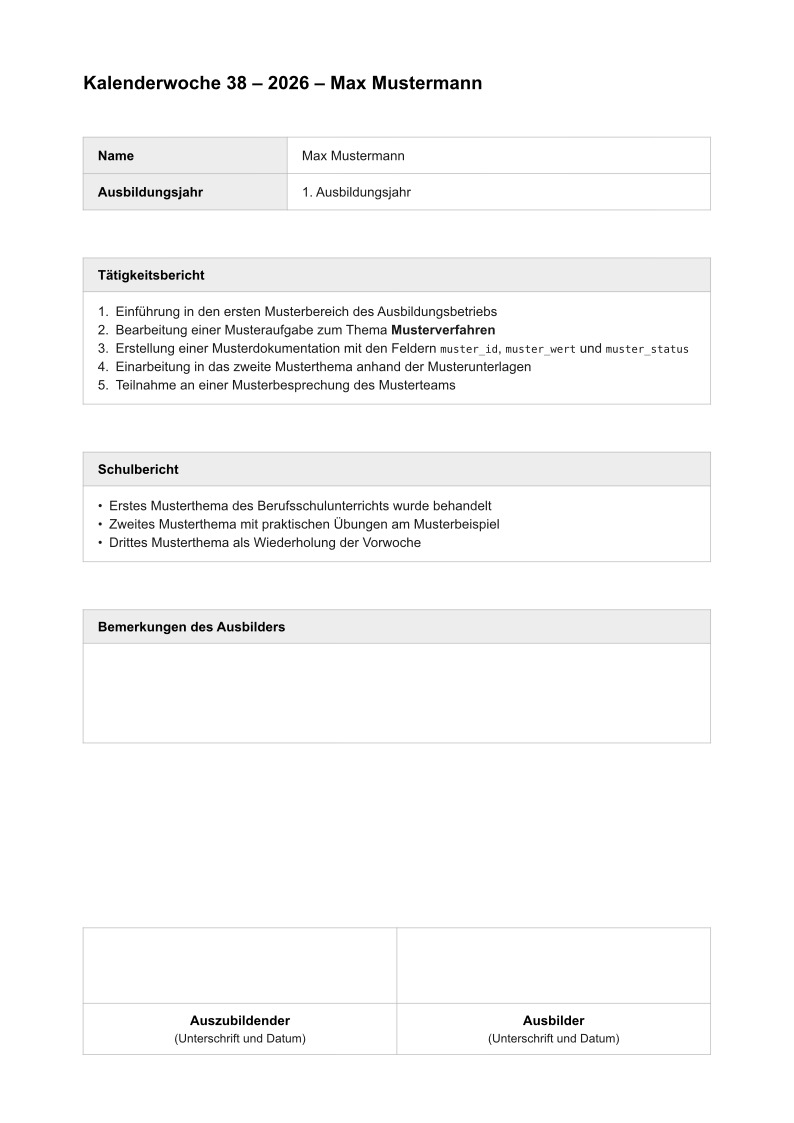
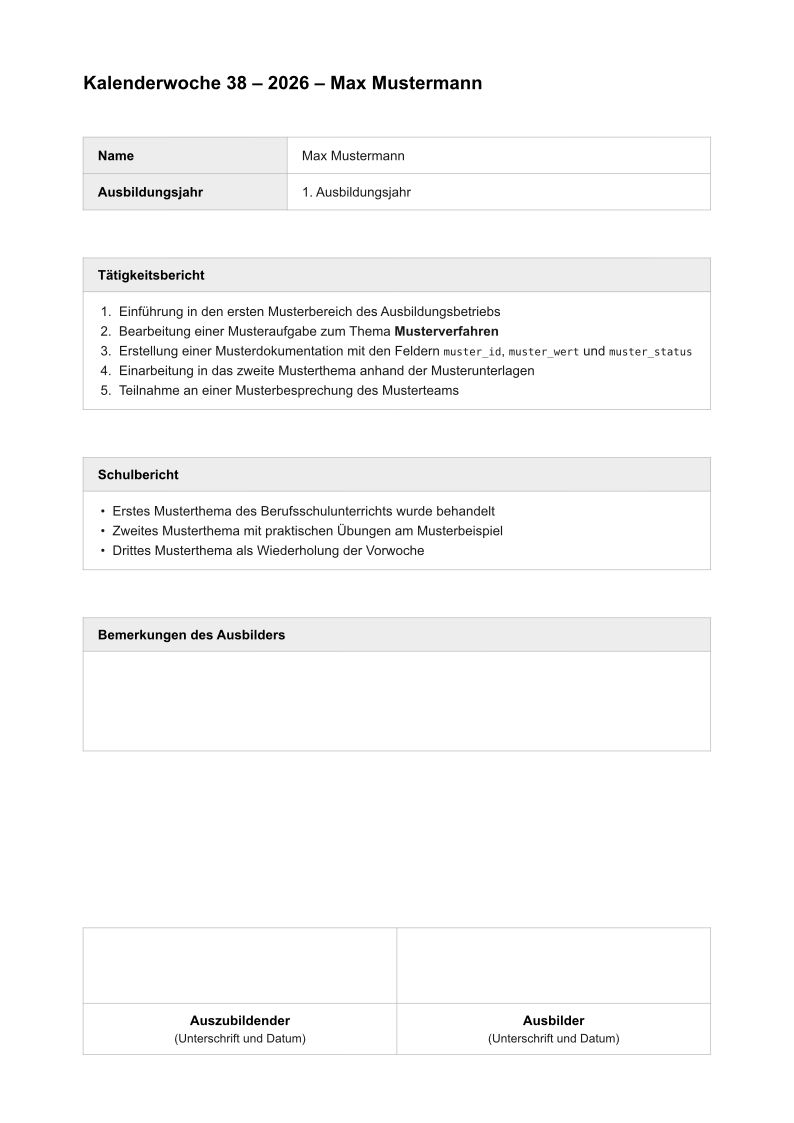
Set every section the same way it is written
A section can be written as an array of strings or as Typst markup, but
only the array went through the package's own list settings; markup kept
Typst's defaults and came out with a different indent. The two spellings
of the same section therefore did not look alike, which made the markup
form feel like the lesser one.

Apply the one list style to both, enumerations included. An array and a
"-" list with the same items now render byte for byte identically, and
either half of a report can be written either way.

The quick start in both READMEs is rewritten around that: it names both
sections instead of passing one as an argument and leaving the other to
the document body, since the two halves are of equal standing. The
document-body and trailing-block forms move to a "Shorthands" section as
what they are — shorter spellings of the same call. examples/minimal.typ
follows suit; its output is unchanged.

diff --git a/README.de.md b/README.de.md
@@ -21,32 +21,63 @@ für handschriftliche Einträge.
 
 ## Schnellstart
 
+Ein Wochenbericht besteht aus zwei gleichrangigen Hälften — dem
+Tätigkeitsbericht und dem Schulbericht —, also werden beide gleich
+geschrieben. Entweder als Arrays von Strings:
+
 ```typ
 #import "@preview/azubinachweis:0.1.0": nachweis
 
-#show: nachweis.with(
+#nachweis(
   name: "Max Mustermann",
   ausbildungsjahr: "1. Ausbildungsjahr",
   kalenderwoche: "37",
   jahr: "2026",
+  taetigkeiten: (
+    "Einführung in den ersten Musterbereich des Ausbildungsbetriebs",
+    "Bearbeitung einer Musteraufgabe zur Einschätzung der Vorkenntnisse",
+    "Teilnahme an einer Musterbesprechung des Musterteams",
+  ),
   schulbericht: (
     "Erstes Musterthema des Berufsschulunterrichts wurde behandelt",
     "Zweites Musterthema mit praktischen Übungen am Musterbeispiel",
   ),
 )
-
-- Einführung in den ersten Musterbereich des Ausbildungsbetriebs
-- Bearbeitung einer Musteraufgabe zur Einschätzung der Vorkenntnisse
-- Teilnahme an einer Musterbesprechung des Musterteams
 ```
 
-Der Text des Dokuments bildet den Tätigkeitsbericht. Alle weiteren Abschnitte
-werden als Argumente übergeben.
+oder als gewöhnliches Typst-Markup, ganz ohne Anführungszeichen:
 
-### Abschnitte als Inhaltsblöcke
+```typ
+#nachweis(
+  name: "Max Mustermann",
+  ausbildungsjahr: "1. Ausbildungsjahr",
+  kalenderwoche: "37",
+  jahr: "2026",
+  taetigkeiten: [
+    - Einführung in den ersten Musterbereich des Ausbildungsbetriebs
+    - Bearbeitung einer Musteraufgabe zur Einschätzung der Vorkenntnisse
+    - Teilnahme an einer Musterbesprechung des Musterteams
+  ],
+  schulbericht: [
+    - Erstes Musterthema des Berufsschulunterrichts wurde behandelt
+    - Zweites Musterthema mit praktischen Übungen am Musterbeispiel
+  ],
+)
+```
 
-Wer lieber gewöhnliches Typst-Markup schreibt als Strings in Arrays, hängt die
-Abschnitte als Inhaltsblöcke an den Aufruf — in der Reihenfolge, in der sie im
+Beides ergibt denselben Nachweis und wird identisch gesetzt: Einzug und
+Abstände der Listen gibt das Paket vor, gleich welcher Schreibweise. Mischen
+ist erlaubt — ein Abschnitt als Array, der nächste als Markup —, und Markup
+erlaubt zusätzlich Nummerierung, Auszeichnungen, Links, Fußnoten und Code im
+Berichtstext.
+
+Jeder Abschnitt nimmt beide Formen: `unterweisungen`, `bemerkungen`,
+`weiteres` und der `inhalt` eines Tages im `tagesbericht`.
+
+### Kurzformen
+
+Für dieselbe Sache gibt es zwei kürzere Schreibweisen. Inhaltsblöcke lassen
+sich an den Aufruf anhängen — in der Reihenfolge, in der die Abschnitte im
 Dokument stehen:
 
 ```typ
@@ -65,9 +96,8 @@ Dokument stehen:
 | `tagesbericht` | Schulbericht | Bemerkungen | — |
 | `deckblatt` | freier Zusatz | — | — |
 
-Damit sind Nummerierung, Auszeichnungen, Links, Fußnoten und Code im
-Berichtstext möglich, und es muss nichts escaped werden. Ein leerer Block `[]`
-überspringt einen Abschnitt, benannte Argumente bleiben daneben gültig:
+Ein leerer Block `[]` überspringt einen Abschnitt, benannte Argumente bleiben
+daneben gültig:
 
 ```typ
 #nachweis(taetigkeiten: ("Aus einem Array",))[][
@@ -75,8 +105,19 @@ Berichtstext möglich, und es muss nichts escaped werden. Ein leerer Block `[]`
 ]
 ```
 
-Beide Schreibweisen sind gleichwertig; `#show:` wirkt wie ein einzelner erster
-Block. Was `nachweis` im Dokumenttext bekommt, ist also der Tätigkeitsbericht.
+Und `#show: nachweis.with(..)` wirkt wie ein einzelner erster Block, macht den
+Dokumenttext also zum Tätigkeitsbericht:
+
+```typ
+#show: nachweis.with(name: "Max Mustermann", kalenderwoche: "37", jahr: "2026")
+
+- Einführung in den ersten Musterbereich des Ausbildungsbetriebs
+- Bearbeitung einer Musteraufgabe zur Einschätzung der Vorkenntnisse
+```
+
+Das ist bequem, wenn eine Datei einen Nachweis enthält, behandelt aber die eine
+Hälfte des Berichts anders als die andere. Wer beide Abschnitte benennt, wie im
+Schnellstart, hält sie gleichrangig.
 
 Das ist gleichzeitig der **minimale Aufbau**: Titelzeile, Name und
 Ausbildungsjahr, Tätigkeitsbericht, Schulbericht, eine leere Fläche für
@@ -196,8 +237,7 @@ schulbericht: ("Erster Punkt", "Zweiter Punkt"),      // Aufzählung
 schulbericht: [Beliebiges #strong[Markup]],           // eigener Inhalt
 ```
 
-Oder als Inhaltsblock hinter dem Aufruf — siehe [Abschnitte als
-Inhaltsblöcke](#abschnitte-als-inhaltsbl%C3%B6cke).
+Oder als Inhaltsblock hinter dem Aufruf — siehe [Kurzformen](#kurzformen).
 
 ### Aufbau und Beschriftung
 

diff --git a/README.md b/README.md
@@ -28,33 +28,62 @@ is the actual thing, and it is what appears on the page and in your code.
 
 ## Quick start
 
+A weekly report is two halves of equal standing — the activity report
+(*Tätigkeitsbericht*) and the school report (*Schulbericht*) — so both are
+written the same way. Either as arrays of strings:
+
 ```typ
 #import "@preview/azubinachweis:0.1.0": nachweis
 
-#show: nachweis.with(
+#nachweis(
   name: "Max Mustermann",
   ausbildungsjahr: "1. Ausbildungsjahr",
   kalenderwoche: "37",
   jahr: "2026",
+  taetigkeiten: (
+    "Einführung in den ersten Musterbereich des Ausbildungsbetriebs",
+    "Bearbeitung einer Musteraufgabe zur Einschätzung der Vorkenntnisse",
+    "Teilnahme an einer Musterbesprechung des Musterteams",
+  ),
   schulbericht: (
     "Erstes Musterthema des Berufsschulunterrichts wurde behandelt",
     "Zweites Musterthema mit praktischen Übungen am Musterbeispiel",
   ),
 )
-
-- Einführung in den ersten Musterbereich des Ausbildungsbetriebs
-- Bearbeitung einer Musteraufgabe zur Einschätzung der Vorkenntnisse
-- Teilnahme an einer Musterbesprechung des Musterteams
 ```
 
-The document body becomes the activity report (*Tätigkeitsbericht*). Every
-other section is passed as an argument.
+or as ordinary Typst markup, with nothing to quote or escape:
 
-### Sections as content blocks
+```typ
+#nachweis(
+  name: "Max Mustermann",
+  ausbildungsjahr: "1. Ausbildungsjahr",
+  kalenderwoche: "37",
+  jahr: "2026",
+  taetigkeiten: [
+    - Einführung in den ersten Musterbereich des Ausbildungsbetriebs
+    - Bearbeitung einer Musteraufgabe zur Einschätzung der Vorkenntnisse
+    - Teilnahme an einer Musterbesprechung des Musterteams
+  ],
+  schulbericht: [
+    - Erstes Musterthema des Berufsschulunterrichts wurde behandelt
+    - Zweites Musterthema mit praktischen Übungen am Musterbeispiel
+  ],
+)
+```
 
-If you would rather write ordinary Typst markup than strings in arrays, append
-the sections as content blocks to the call, in the order they appear in the
-document:
+The two spell the same sheet and set identically: the package gives every list
+its own indent and spacing, however it was written. Mixing them is fine — one
+section as an array, the next as markup — and markup buys you numbering,
+emphasis, links, footnotes and code inside a report.
+
+Every section takes both forms: `unterweisungen`, `bemerkungen`, `weiteres`,
+and the `inhalt` of a day in a `tagesbericht`.
+
+### Shorthands
+
+Two shorter spellings exist for the same thing. Content blocks may be appended
+to the call, in the order the sections appear in the document:
 
 ```typ
 #nachweis(name: "Max Mustermann", kalenderwoche: "38", jahr: "2026")[
@@ -72,9 +101,7 @@ document:
 | `tagesbericht` | school report (*Schulbericht*) | trainer's remarks (*Bemerkungen*) | — |
 | `deckblatt` | free addition (*Zusatz*) | — | — |
 
-This gives you numbering, emphasis, links, footnotes and code inside the report
-text, with nothing to escape. An empty block `[]` skips a section, and named
-arguments still work alongside:
+An empty block `[]` skips a section, and named arguments still work alongside:
 
 ```typ
 #nachweis(taetigkeiten: ("From an array",))[][
@@ -82,9 +109,19 @@ arguments still work alongside:
 ]
 ```
 
-Both spellings are equivalent; `#show:` acts as a single first block. So what
-`nachweis` receives as the document body is the activity report
-(*Tätigkeitsbericht*).
+And `#show: nachweis.with(..)` acts as a single first block, which makes the
+document body the activity report (*Tätigkeitsbericht*):
+
+```typ
+#show: nachweis.with(name: "Max Mustermann", kalenderwoche: "37", jahr: "2026")
+
+- Einführung in den ersten Musterbereich des Ausbildungsbetriebs
+- Bearbeitung einer Musteraufgabe zur Einschätzung der Vorkenntnisse
+```
+
+That is convenient for one sheet per file, but it does treat one half of the
+report differently from the other. Naming both sections, as in the quick start,
+keeps them symmetric.
 
 That is also the **minimal setup**: title line, name and training year
 (*Ausbildungsjahr*), the activity report (*Tätigkeitsbericht*), the school
@@ -208,8 +245,7 @@ schulbericht: ("First point", "Second point"),        // a bullet list
 schulbericht: [Arbitrary #strong[markup]],            // your own content
 ```
 
-Or as a content block after the call — see [Sections as content
-blocks](#sections-as-content-blocks).
+Or as a content block after the call — see [Shorthands](#shorthands).
 
 ### Structure and labels
 
